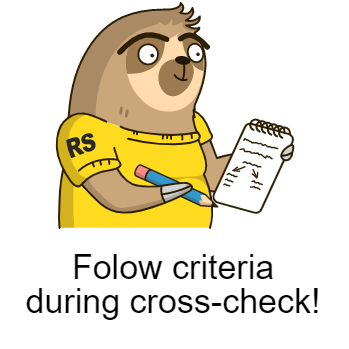
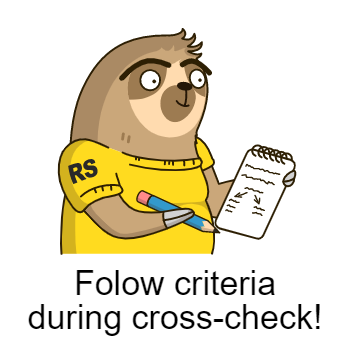
fix: change font size for mobile Sat, Mar 11, 2023  3:08:50 PM

diff --git a/cssBayan/style.css b/cssBayan/style.css
@@ -140,3 +140,30 @@ section:target .image {
   transition: 1s;
 }
 
+@media (max-width: 1440px) {
+  .wrapper {
+    width: 100%;
+  }
+}
+
+@media (max-width: 820px) {
+  body {
+    font-size: 0.8em;
+  }
+
+  section {
+    cursor: default;
+  }
+}
+
+@media (max-width: 400px) {
+  body {
+    font-size: 0.7em;
+  }
+}
+
+@media (max-width: 340px) {
+  body {
+    font-size: 0.6em;
+  }
+}
